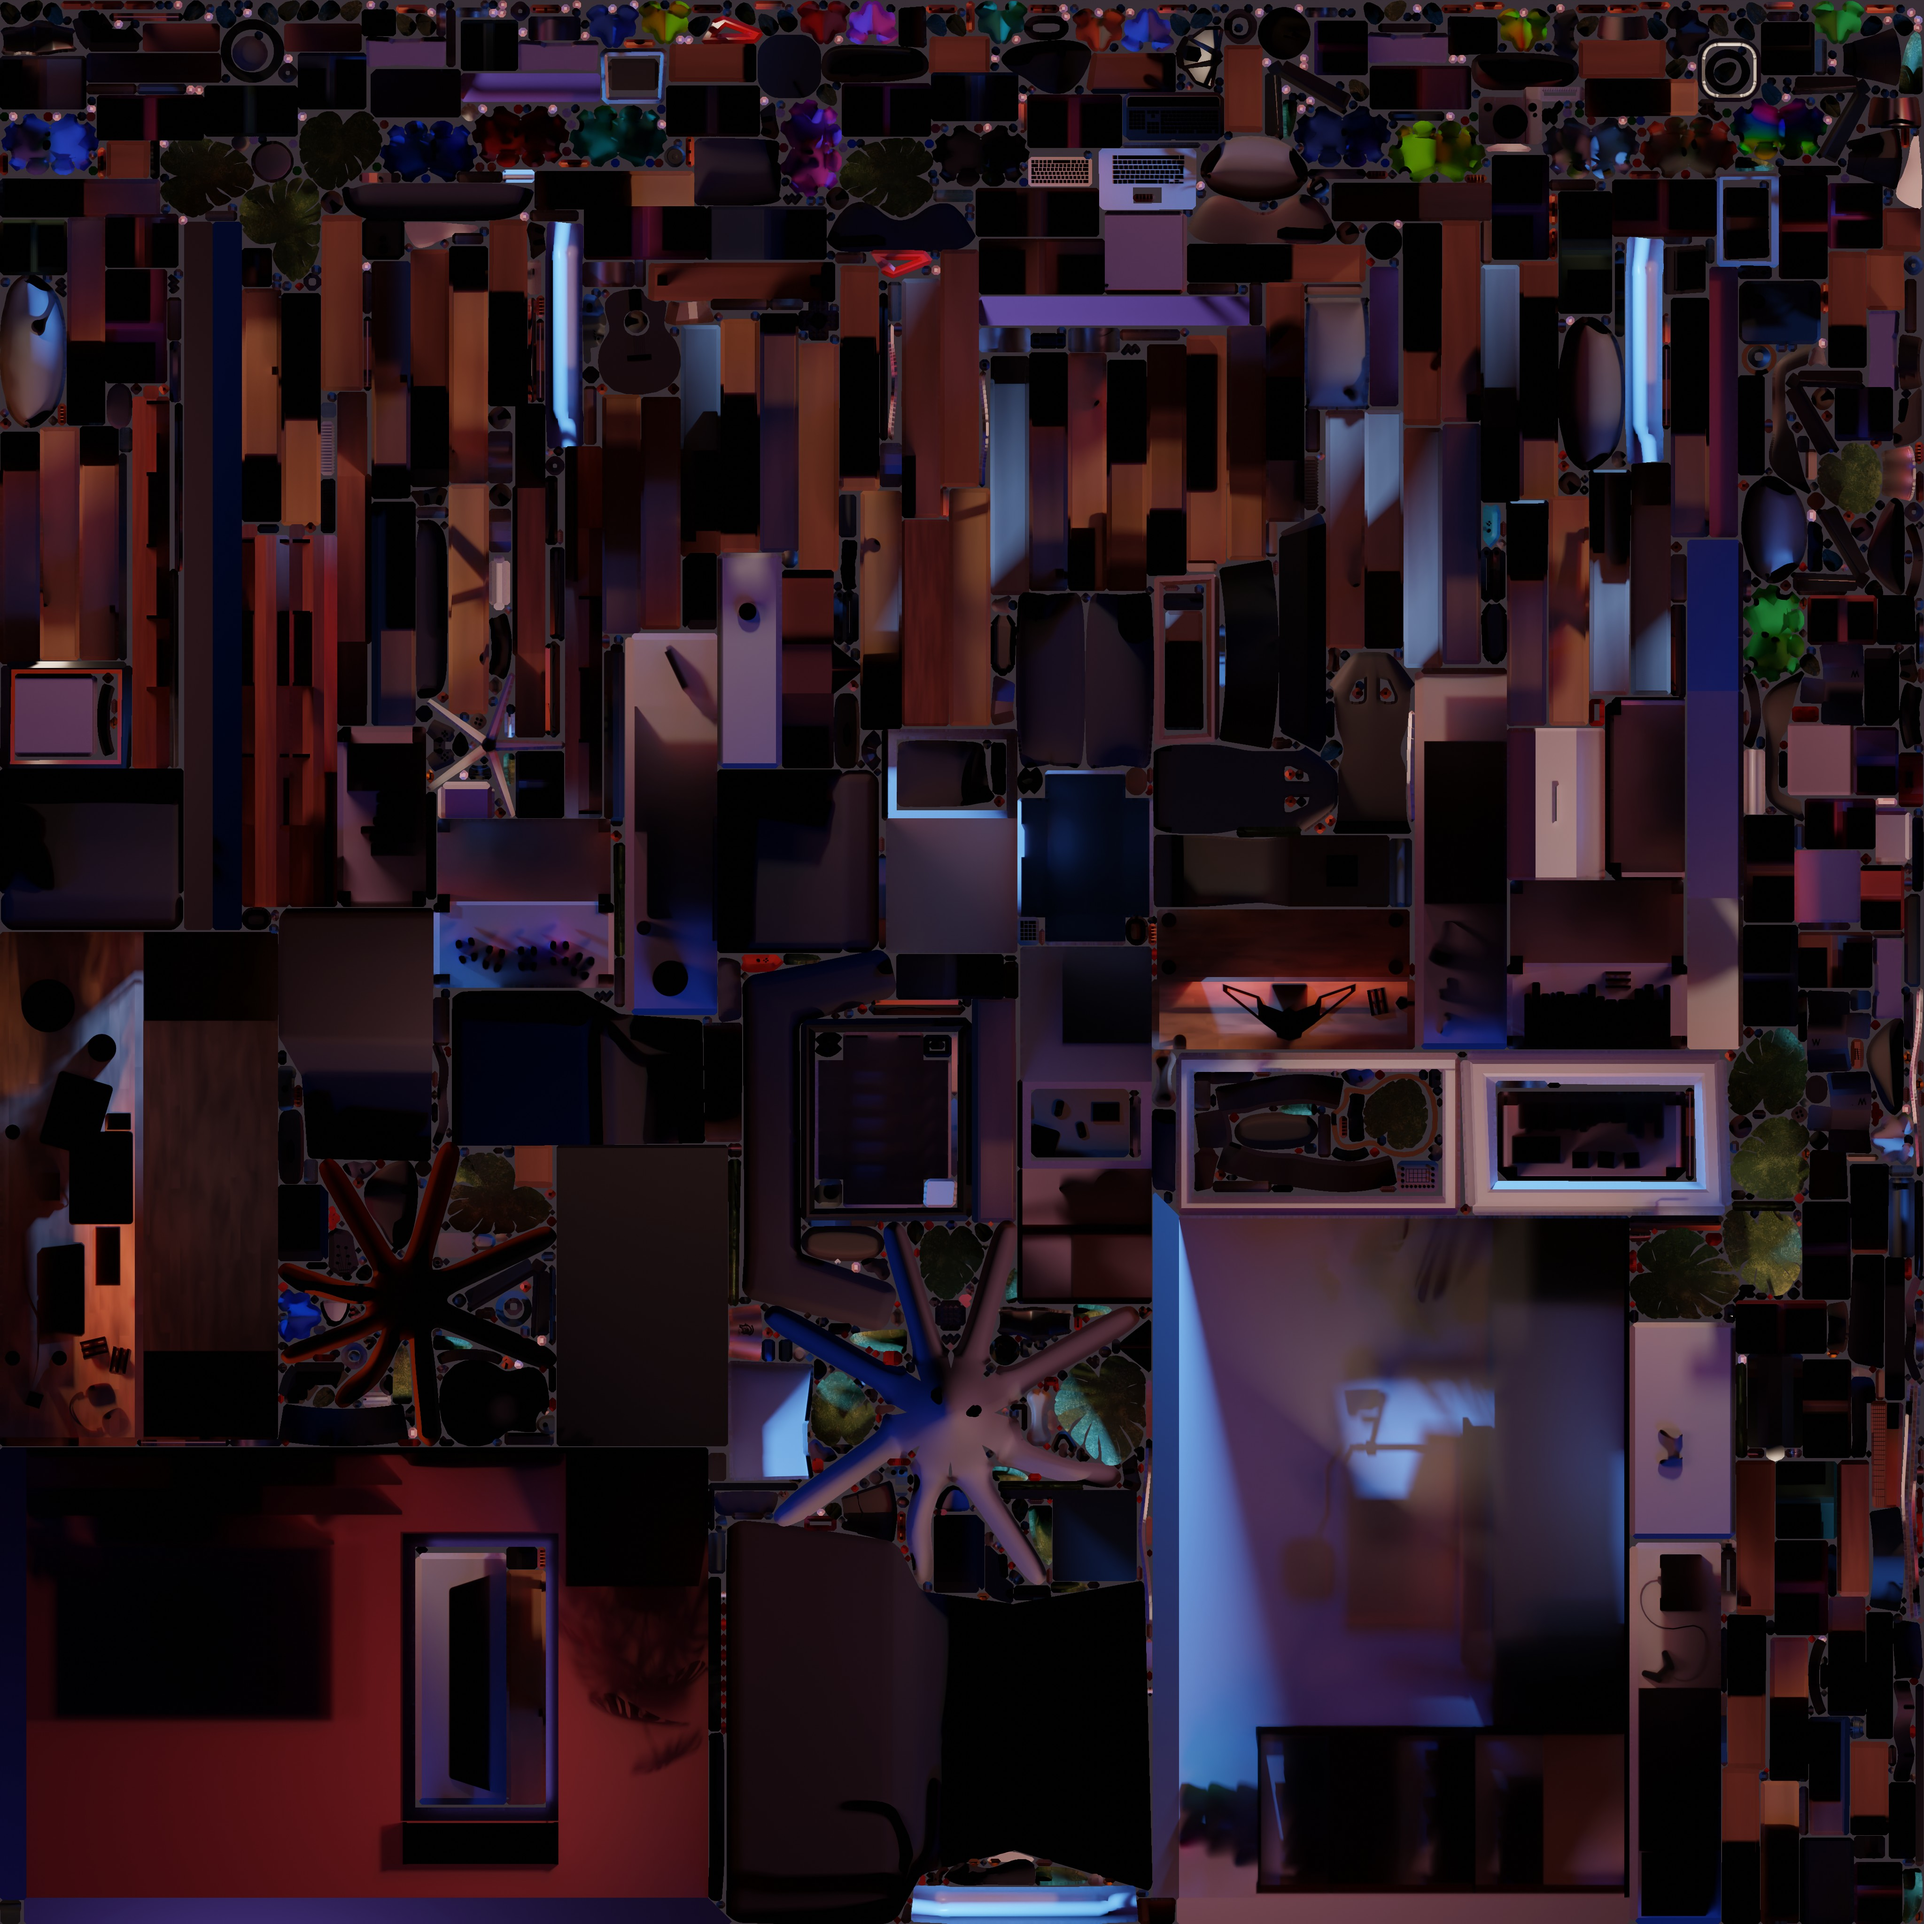
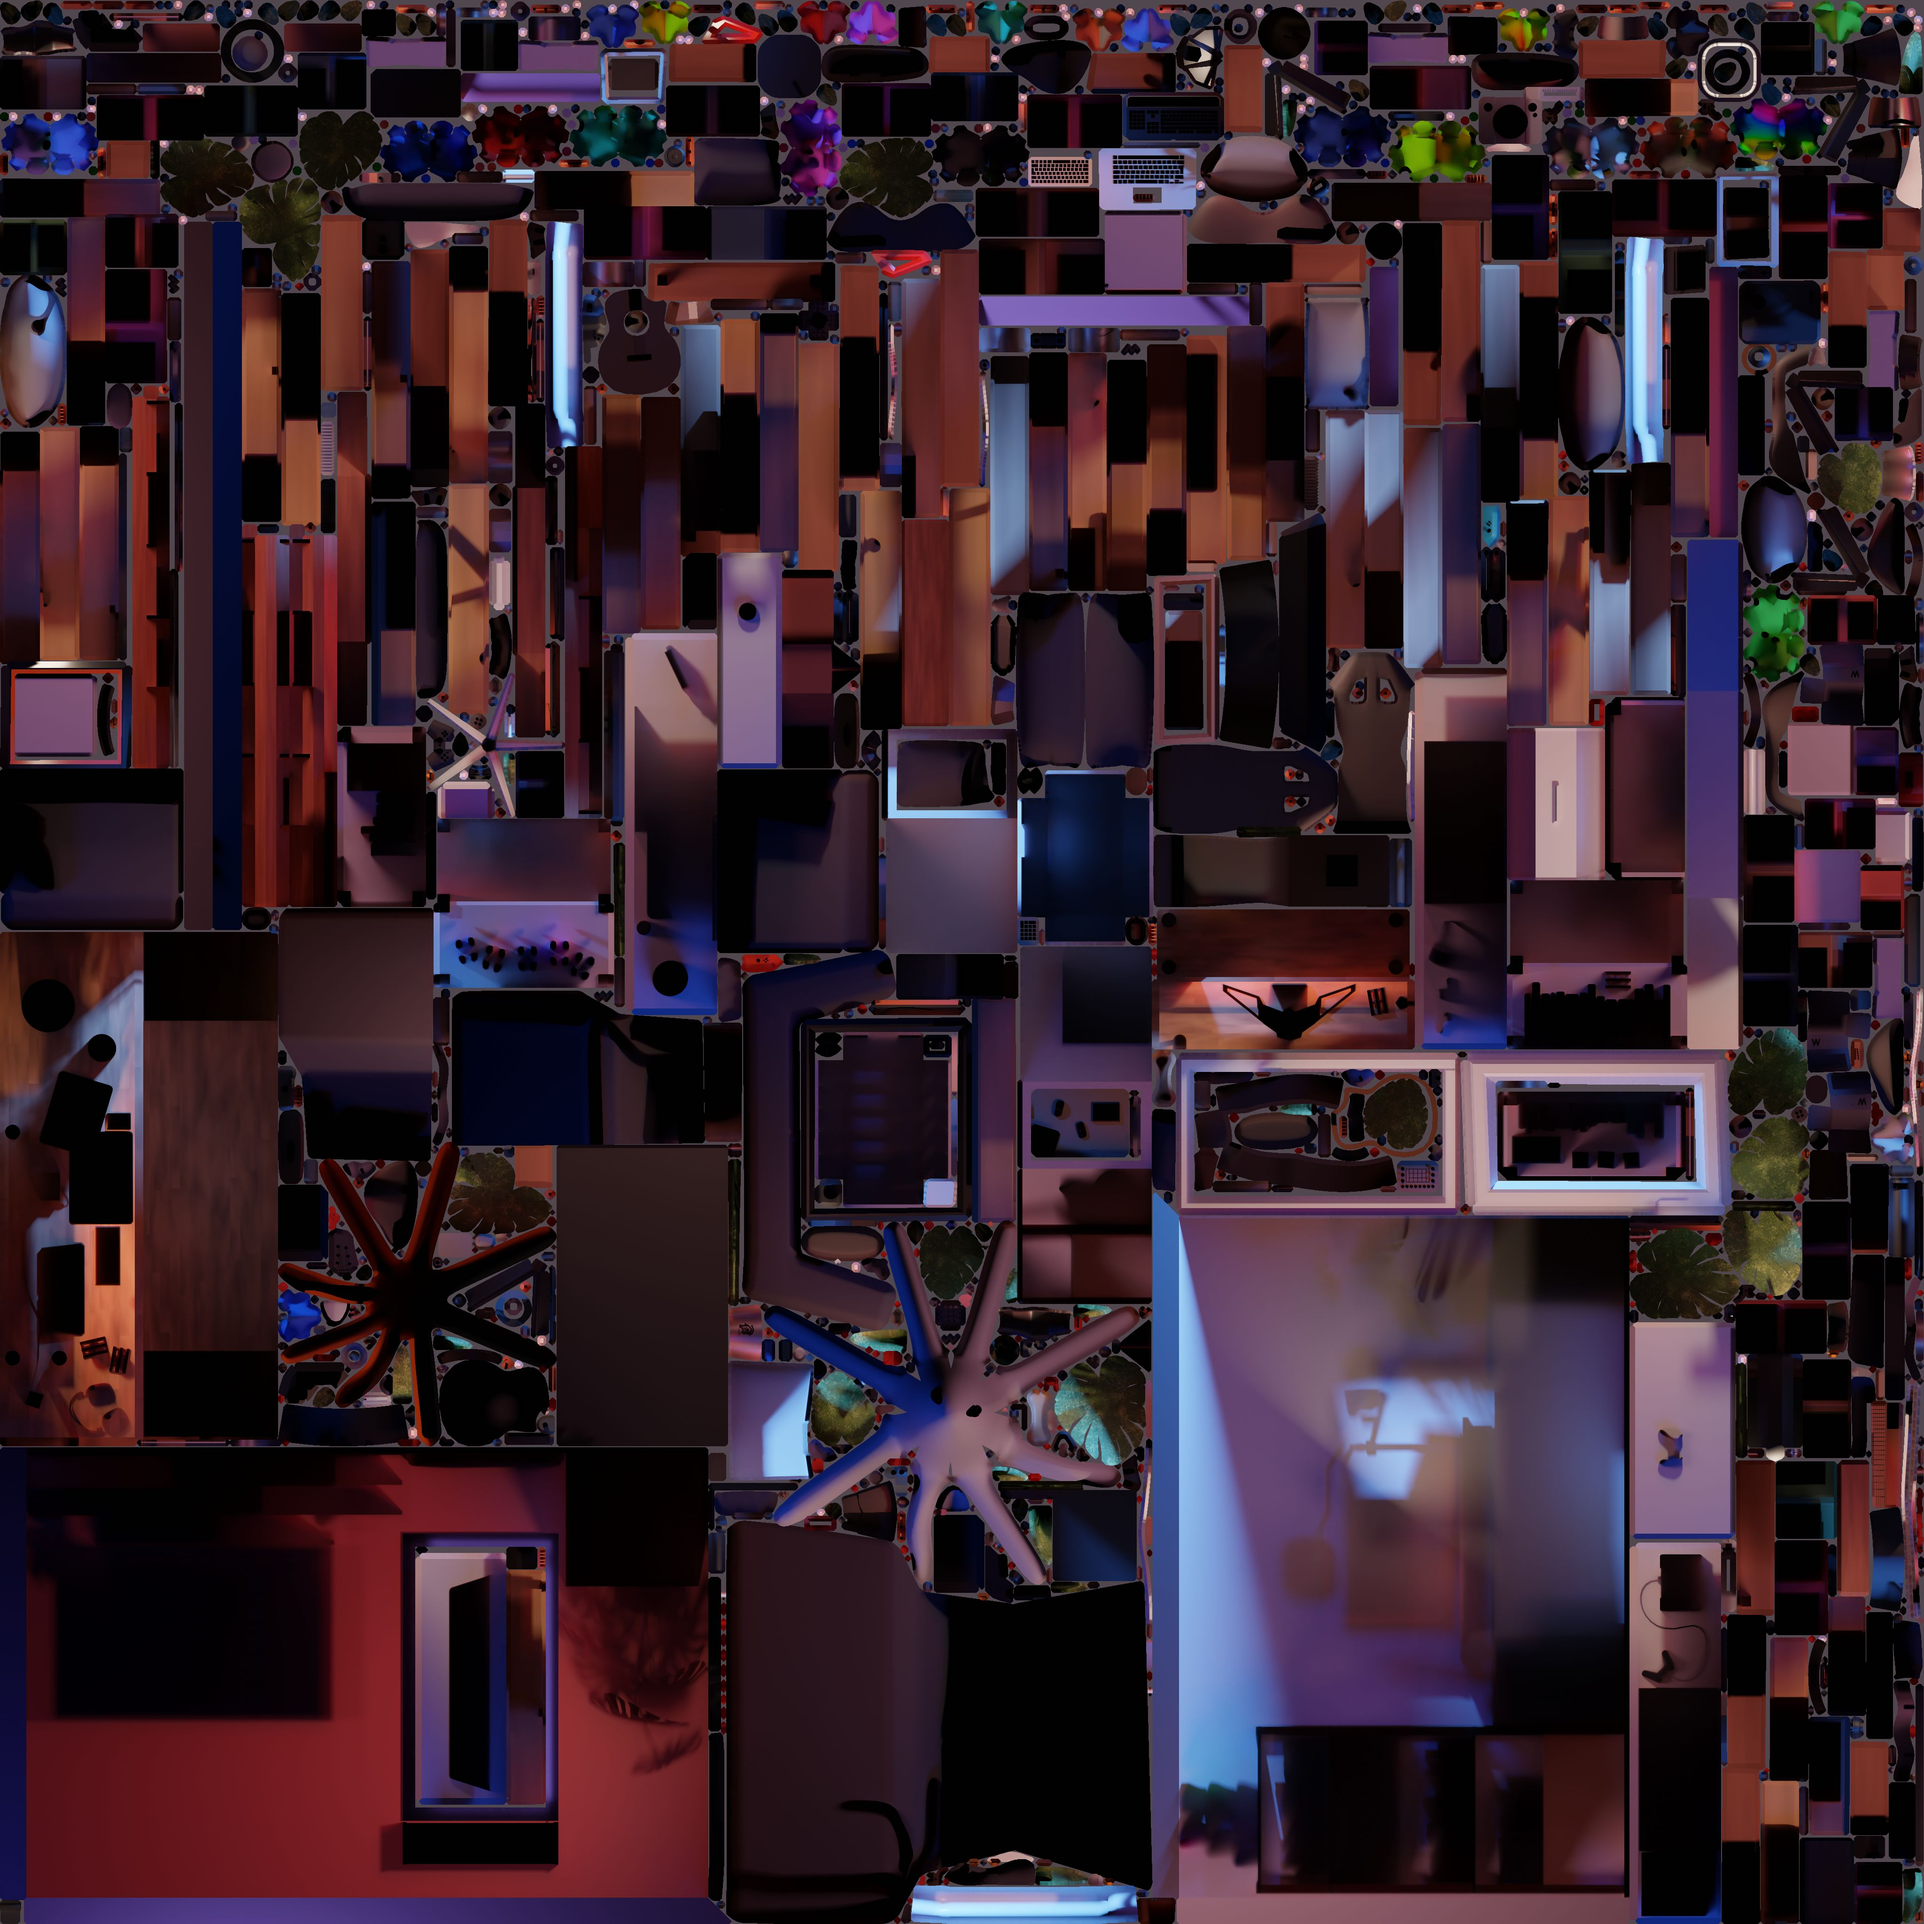
:bento: Improve textures

diff --git a/src/Experience/Baked.js b/src/Experience/Baked.js
@@ -49,7 +49,7 @@ export default class CoffeeSteam
 
         this.colors = {}
         this.colors.tv = '#ff115e'
-        this.colors.desk = '#ff9b00'
+        this.colors.desk = '#ff6700'
         this.colors.pc = '#0082ff'
 
         this.model.material = new THREE.ShaderMaterial({
@@ -67,7 +67,7 @@ export default class CoffeeSteam
                 uLightTvStrength: { value: 1.47 },
 
                 uLightDeskColor: { value: new THREE.Color(this.colors.desk) },
-                uLightDeskStrength: { value: 1.36 },
+                uLightDeskStrength: { value: 1.9 },
 
                 uLightPcColor: { value: new THREE.Color(this.colors.pc) },
                 uLightPcStrength: { value: 1.4 }

diff --git a/src/Experience/BouncingLogo.js b/src/Experience/BouncingLogo.js
@@ -18,7 +18,7 @@ export default class BouncingLogo
         {
             this.debugFolder = this.debug.addFolder({
                 title: 'bouncingLogo',
-                expanded: true
+                expanded: false
             })
         }
 
@@ -44,6 +44,7 @@ export default class BouncingLogo
 
         this.model.material = new THREE.MeshBasicMaterial({
             transparent: true,
+            premultipliedAlpha: true,
             map: this.model.texture
         })
 
